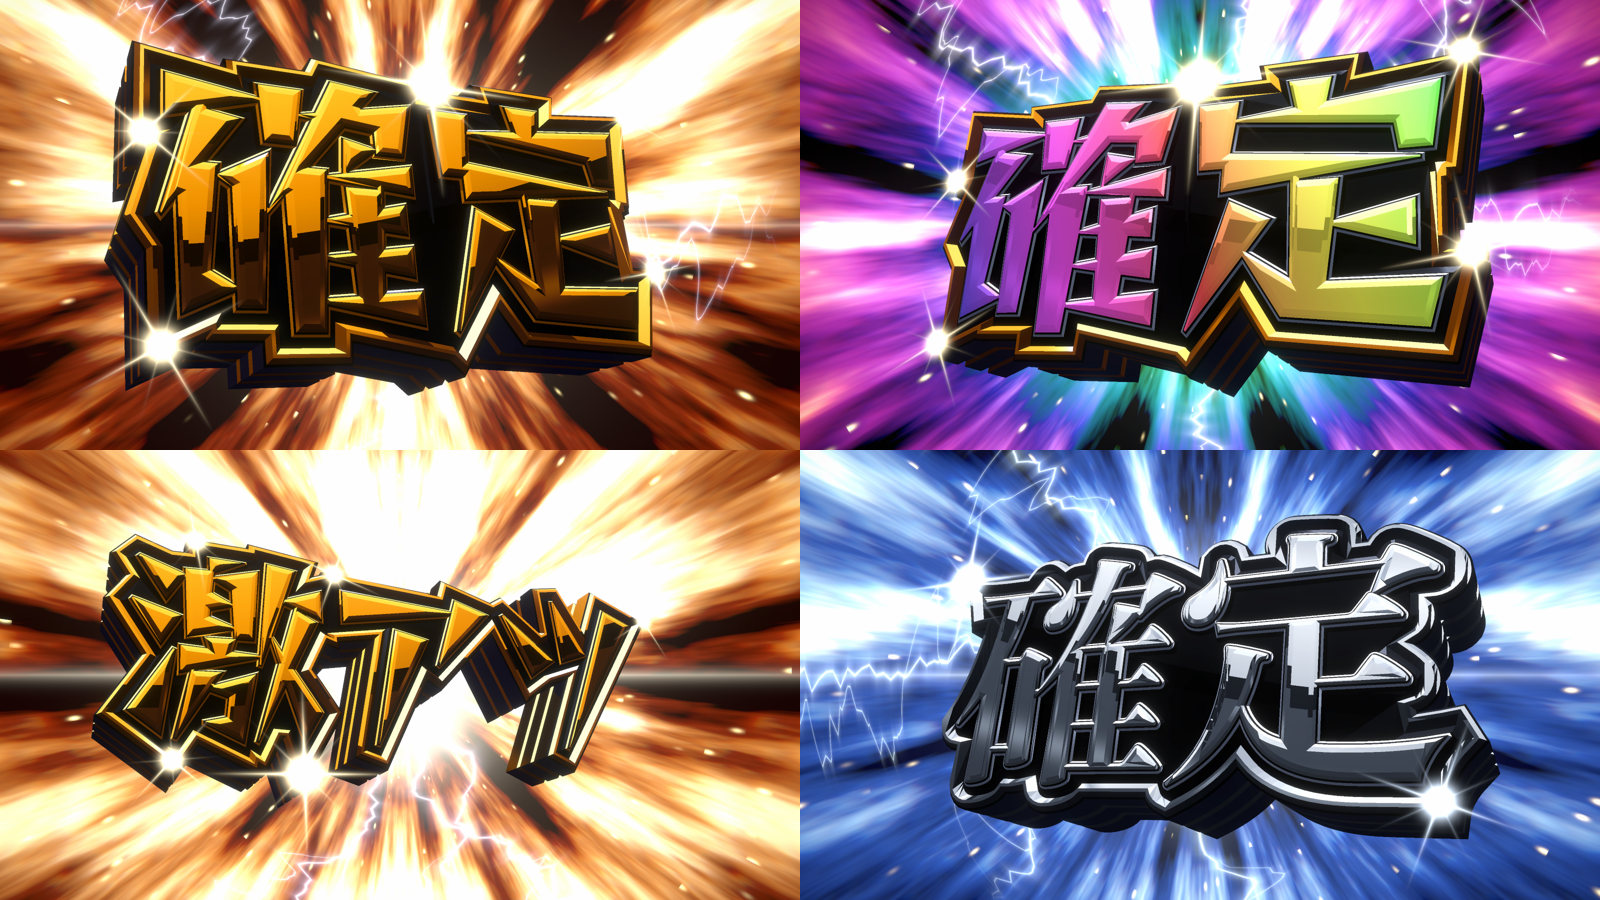
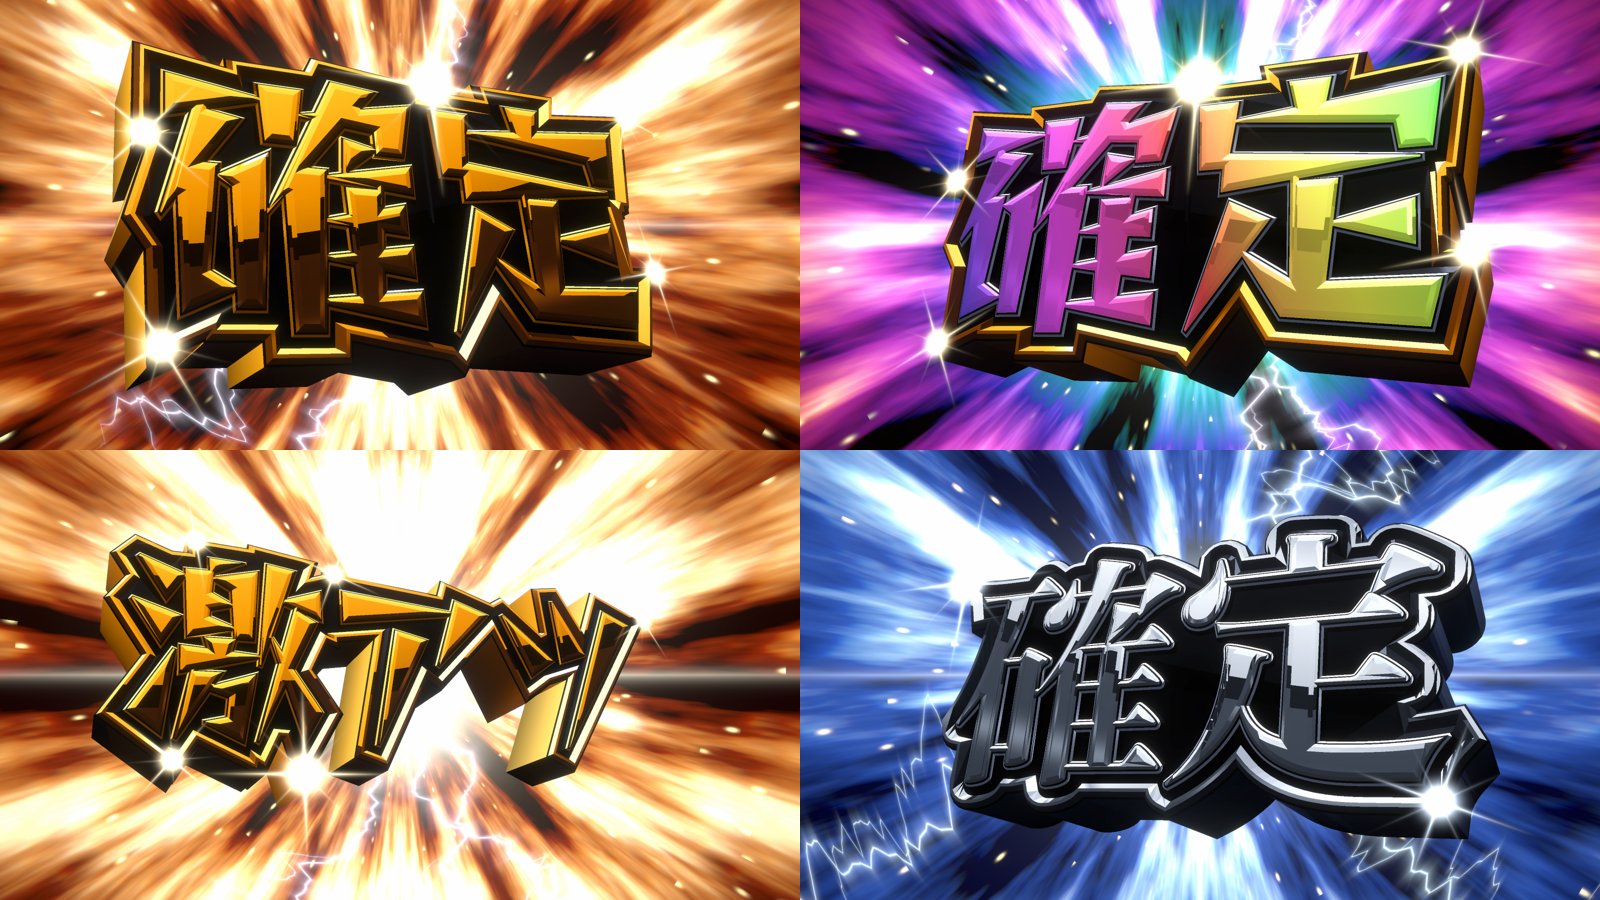
側面を一続きの金の塊にする（重ね板に見えるのを直す）
- 側面の途中の溝をやめ、段々は手前のフチだけに。側面はまっすぐ奥まで一続きに
- 側面は奥へ行くほど暗く沈める（uv.y に奥行きを入れて材質で使う）
- 横向き・下向きの壁に暗い地面が映って真っ黒になっていたので、側面だけ映り込みの水平線を大きく下げ、面ごとの明暗は光の当たり方で付ける

diff --git a/PachiMoji/Assets/PachiMoji/Scripts/PachiTextBuilder.cs b/PachiMoji/Assets/PachiMoji/Scripts/PachiTextBuilder.cs
@@ -35,12 +35,9 @@ namespace PachiMoji
             public float faceInset = -4;     // 表の面は輪郭より少し内側
             // 表の面の丸み：輪郭から内側へ (offset, 奥行き) の段を重ねて、中ほどを手前へ盛り上げる（面ごとに映り込みが変わる）
             public Vector2[] faceBulge = { new Vector2(-4, 0), new Vector2(-14, -3), new Vector2(-30, -5) };
-            // 側面の段々：外周から (offset, 奥行き) を順にたどる。offset が変わる所は面取りの段になる
-            public Vector2[] sideProfile =
-            {
-                new Vector2(0, 32), new Vector2(0, 150), new Vector2(-12, 160), new Vector2(-12, 182), new Vector2(0, 194),
-                new Vector2(0, 300), new Vector2(-12, 310), new Vector2(-12, 332), new Vector2(0, 344), new Vector2(0, 470),
-            };
+            // 側面：外周から (offset, 奥行き) を順にたどる。段々は手前のフチだけにして、側面は一続きの塊にする
+            // （途中に溝を入れると、板を何枚も重ねたように見える）
+            public Vector2[] sideProfile = { new Vector2(0, 32), new Vector2(0, 470) };
             public Step[] steps;             // 字の輪郭まわりの段（細い線・溝）。offset は字の輪郭から
             public float silhouette = 95;    // 言葉全体の外周（字の輪郭からこれだけ太らせ、穴は埋める）
             public float floorZ = 40;        // 字のすき間の、沈んだ床の奥行き
@@ -223,6 +220,9 @@ namespace PachiMoji
             Fill(b, OffS(back.x), null, back.y, back.y, new Vector3(0, 0, 1), Part.Side);
 
             var mesh = new Mesh { indexFormat = IndexFormat.UInt32 };
+            // uv.y に奥行き（0＝手前、1＝いちばん奥）を入れる。材質で奥ほど暗くするのに使う
+            float zMax = style.sideProfile[style.sideProfile.Length - 1].y;
+            for (int i = 0; i < b.uv.Count; i++) b.uv[i] = new Vector2(b.uv[i].x, Mathf.Clamp01((b.v[i].z - 30) / (zMax - 30)));
             for (int i = 0; i < b.v.Count; i++) b.v[i] *= scale;
             mesh.SetVertices(b.v);
             mesh.SetNormals(b.n);

diff --git a/PachiMoji/Assets/PachiMoji/Scripts/PachiText.cs b/PachiMoji/Assets/PachiMoji/Scripts/PachiText.cs
@@ -54,6 +54,15 @@ namespace PachiMoji
             return go;
         }
 
+        // 側面用：そのままだと横向き・下向きの壁に暗い地面が映って真っ黒になるので、水平線を大きく下げる
+        static Material SideMetal(string ramp)
+        {
+            var m = Metal(ramp, false, 1.5f);
+            m.SetFloat("_Horizon", -0.7f);   // 横向き・下向きの面にも空が映る
+            m.SetFloat("_Diffuse", 0.5f);    // 面ごとの明暗は光の当たり方で付ける
+            return m;
+        }
+
         static Material Metal(string ramp, bool rainbow = false, float boost = 3f)
         {
             var m = new Material(Shader.Find("PachiMoji/Metal"));
@@ -69,11 +78,11 @@ namespace PachiMoji
             switch (f)
             {
                 case Finish.Silver:
-                    return new[] { Metal("silver"), Metal("silverLine"), Metal("black", false, 0), Metal("silver"), Metal("silverSide") };
+                    return new[] { Metal("silver"), Metal("silverLine"), Metal("black", false, 0), Metal("silver"), SideMetal("silverSide") };
                 case Finish.Rainbow:
-                    return new[] { Metal(null, true, 2), Metal("silverLine"), Metal("black", false, 0), Metal("goldRim"), Metal("goldSide") };
+                    return new[] { Metal(null, true, 2), Metal("silverLine"), Metal("black", false, 0), Metal("goldRim"), SideMetal("goldSide") };
                 default:
-                    return new[] { Metal("gold"), Metal("goldLine"), Metal("black", false, 0), Metal("goldRim"), Metal("goldSide") };
+                    return new[] { Metal("gold"), Metal("goldLine"), Metal("black", false, 0), Metal("goldRim"), SideMetal("goldSide") };
             }
         }
     }

diff --git a/PachiMoji/Assets/PachiMoji/Scripts/PachiRamps.cs b/PachiMoji/Assets/PachiMoji/Scripts/PachiRamps.cs
@@ -22,8 +22,8 @@ namespace PachiMoji
             // ツヤのある黒（溝・きわ）
             ["black"] = new[] { (0f, "#000000"), (0.6f, "#050508"), (0.8f, "#101218"), (0.95f, "#3a4050"), (1f, "#8088a0") },
             // 側面：影は紺、光の当たる面は金
-            ["goldSide"] = new[] { (0f, "#02030a"), (0.2f, "#0c0a20"), (0.35f, "#2a1a10"), (0.5f, "#6a3a00"), (0.65f, "#c07000"),
-                (0.8f, "#ffaa20"), (0.9f, "#ffd870"), (1f, "#fff8e0") },
+            ["goldSide"] = new[] { (0f, "#05030a"), (0.15f, "#1a0c06"), (0.3f, "#5a2c00"), (0.45f, "#a05a00"), (0.6f, "#e08a00"),
+                (0.75f, "#ffb428"), (0.88f, "#ffe080"), (1f, "#fff8e0") },
             // 銀
             ["silver"] = new[] { (0f, "#000000"), (0.1f, "#0a0c10"), (0.25f, "#2a303a"), (0.35f, "#4a5260"), (0.5f, "#8590a0"),
                 (0.65f, "#c8d0dc"), (0.75f, "#eef2f8"), (0.82f, "#9aa4b4"), (0.9f, "#f4f8ff"), (1f, "#ffffff") },
